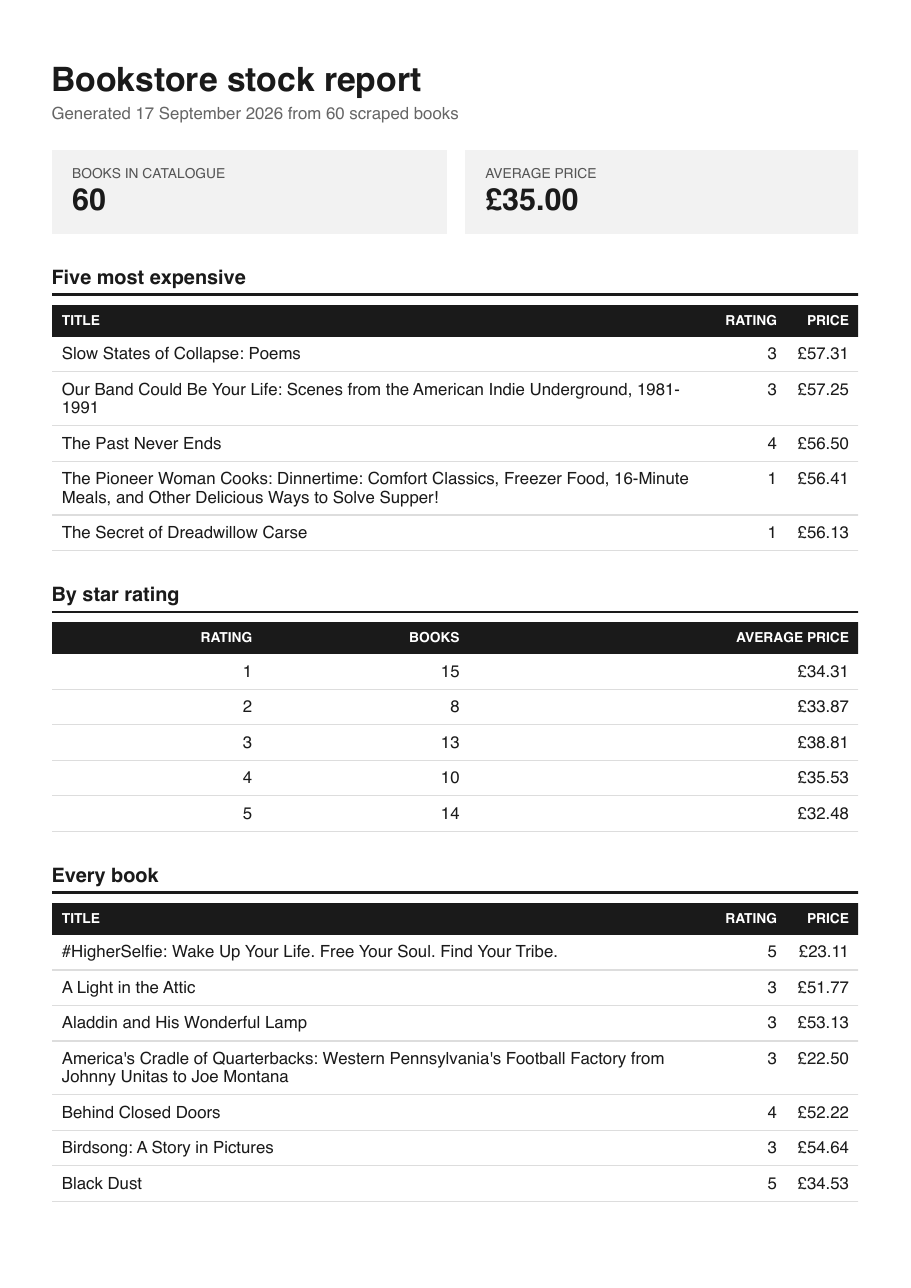
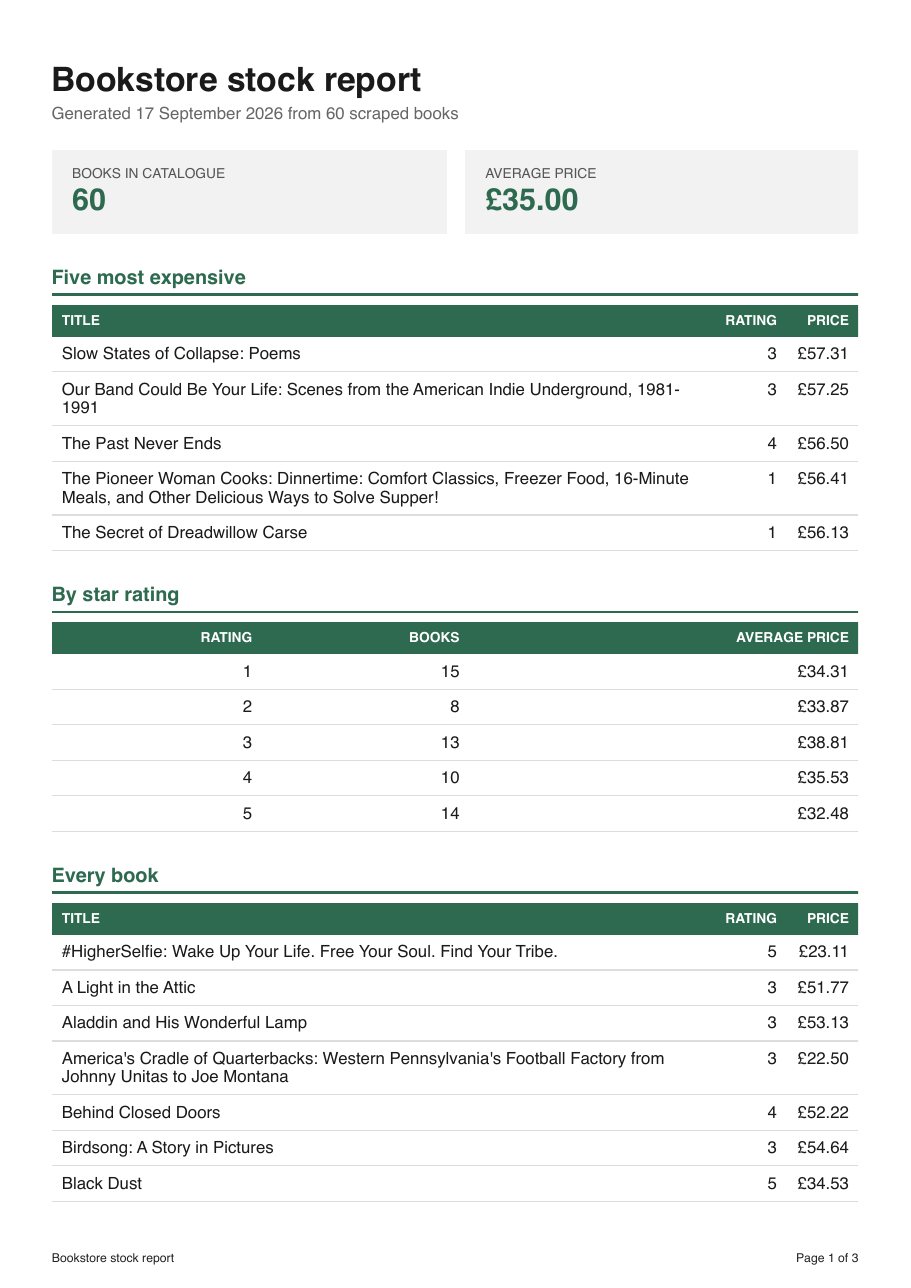
Stage 6: publish and docs

diff --git a/pdf-report-generator/README.md b/pdf-report-generator/README.md
@@ -1,0 +1,222 @@
+# PDF report generator (FlyRank A8)
+
+Turns rows in a SQLite table into a printable A4 document: query, render a web page, and ask a
+headless browser to print it. The API generates the report, records it, and serves the file by
+link.
+
+![Page 1 of a generated report](docs/report-page-1.png)
+
+## The dataset: option B, the bookstore
+
+This uses the 60 validated books my A9 scraper collected from books.toscrape.com, rather than
+inventing 200 random orders. `seed.py` reads [`../scraper/output/books.json`](../scraper/output/books.json)
+and loads it into `report.db`, converting the star rating from the word the site publishes
+("Three") into a number the report can group and sort on (3).
+
+## Run it
+
+Python 3.11. From this `pdf-report-generator/` folder:
+
+```bash
+python3.11 -m venv .venv
+.venv/bin/pip install -r requirements.txt
+.venv/bin/playwright install chromium
+
+.venv/bin/python seed.py                          # fills report.db with the 60 books
+.venv/bin/uvicorn main:app --port 8100            # the API
+```
+
+Then `curl -X POST http://localhost:8100/reports`. The tests need no server and no browser:
+
+```bash
+.venv/bin/python test_report.py
+```
+
+Running `seed.py` twice leaves 60 rows rather than 120, because it clears the table before
+inserting. `report.db` and `reports/` are both git-ignored: generated artefacts do not belong in
+git, and the seed script is their recipe.
+
+## Endpoints
+
+| Endpoint | Does | Answers |
+| --- | --- | --- |
+| `GET /health` | liveness | `200 {"status": "ok"}` |
+| `POST /reports` | runs the whole pipeline and records the file | `201` + `{"id", "file"}`, or `200` with the existing id if today already has one |
+| `GET /reports` | every report generated, newest first | `200` + a count and a list |
+| `GET /reports/{id}` | one report's record and its link | the row, or `404` |
+| `GET /reports/{id}/file` | the PDF itself | `application/pdf`, or `404` |
+
+`POST /reports` accepts an optional body: `{"force": true}` to generate a fresh one on a day
+that already has a report, and `{"min_rating": 4}` to report only on books rated four stars and
+above. A `min_rating` outside 1 to 5 is a `400`.
+
+## The queries
+
+Four questions, answered in SQL rather than in Python. These are the exact strings in
+[`db.py`](db.py), and the numbers in the screenshot above came out of them:
+
+```sql
+-- how many books
+SELECT COUNT(*) AS total_books FROM books WHERE rating >= ?;
+
+-- what they cost on average
+SELECT ROUND(AVG(price), 2) AS average_price FROM books WHERE rating >= ?;
+
+-- the five priciest
+SELECT title, price, rating
+FROM books
+WHERE rating >= ?
+ORDER BY price DESC
+LIMIT 5;
+
+-- the shape of the catalogue, by star rating
+SELECT rating, COUNT(*) AS books, ROUND(AVG(price), 2) AS average_price
+FROM books
+WHERE rating >= ?
+GROUP BY rating
+ORDER BY rating;
+```
+
+`min_rating` is bound as a parameter every time, never formatted into the string.
+
+The numbers agree with each other, which is the check worth doing: the rating groups hold
+15 + 8 + 13 + 10 + 14 = 60 books, and the total says 60.
+
+## Proof: generate, then download
+
+```
+$ curl -s -o out.json -w 'status=%{http_code}  total=%{time_total}s\n' \
+    -X POST http://localhost:8100/reports
+status=201  total=0.274484s
+{"id":"54aa635b0184","file":"/reports/54aa635b0184/file"}
+
+$ curl -X POST http://localhost:8100/reports          # the same request again
+{"id":"54aa635b0184","file":"/reports/54aa635b0184/file"}   [200]
+
+$ curl -s http://localhost:8100/reports/54aa635b0184
+{"id":"54aa635b0184","created_at":"2026-09-17T11:21:49.581341+00:00",
+ "file":"/reports/54aa635b0184/file"}
+
+$ curl -o my-report.pdf .../reports/54aa635b0184/file
+content-type: application/pdf
+content-disposition: attachment; filename="bookstore-report-2026-09-17.pdf"
+content-length: 62149
+
+$ file my-report.pdf
+my-report.pdf: PDF document, version 1.4, 3 pages
+```
+
+Only the last of those moves megabytes. The other three answer in a few dozen bytes and hand
+over a link, which is what "store and link" means in practice.
+
+## The page-break trap
+
+A long table breaks badly by default, and the first render proved it. Reading the text back out
+of the PDF page by page:
+
+```
+page 1: RATING header present = True
+page 2: RATING header present = False
+page 3: RATING header present = False
+```
+
+The header row appeared once and never again, so pages 2 and 3 were columns of numbers with
+nothing saying what they were. Two rules fix it:
+
+```css
+thead { display: table-header-group; }   /* repeat the header on every page */
+tr    { break-inside: avoid; }           /* never slice a row down the middle */
+```
+
+with the header rows moved into a real `<thead>`. After that, all three pages carry the header.
+
+No row happened to land on a page boundary in the 60-book report, so the second rule was not
+exercised there. The 5,000-row version below is where it earns its place.
+
+## When would you move this work out of the request?
+
+The endpoint does everything inline: query, launch a browser, render, write the file, insert a
+row. For 60 books that costs 0.27 seconds and one user clicking one button, which is fine. I
+would move it into a background job at the point where the work either outlasts a sensible HTTP
+timeout or arrives in parallel: a report large enough to take tens of seconds, or more than a
+handful of users generating at once, because every in-flight request is holding a browser
+process and a connection open, and a client that disconnects halfway leaves that work orphaned
+with nobody to hand the result to. A7's job queue is exactly the shape that fixes it: return
+`202` with an id straight away and let a worker render.
+
+## Ask twice, get one
+
+Two rapid POSTs return the same id and `reports/` gains exactly one file. The first answers
+`201`, the second `200`, and `{"force": true}` opts out:
+
+```
+POST /reports                     -> {"id":"52a2fd6f8c23", ...}  [201]
+POST /reports                     -> {"id":"52a2fd6f8c23", ...}  [200]
+files in reports/: 1
+POST /reports {"force":true}      -> {"id":"52c8c99cac88", ...}  [201]
+files in reports/: 2
+```
+
+What the check protects against is the double-click: a user pressing "Generate report" twice, or
+a browser retrying a request that already succeeded, producing two identical files and two
+identical records for the same day. The version of this that costs money is anything with a side
+effect attached, where a missing check means charging a customer's card twice for one order, or
+emailing every subscriber a second copy of the same newsletter because the send job ran twice.
+
+The rule is per filter rather than per day: a four-star report and an everything report are
+different documents, so `min_rating` is stored on the row and the daily check matches on it.
+
+## Extras
+
+**A parameterised report.** `{"min_rating": 4}` filters every query. A rating outside 1 to 5 is
+rejected with a `400` before anything renders, and every error from this API has the same shape,
+`{"error": "..."}`.
+
+**The control panel.** `GET /reports` lists everything generated, newest first, with links and
+the filter each one used.
+
+**Nice filenames.** The download arrives as `bookstore-report-2026-09-17.pdf` rather than a hex
+id, set through `content-disposition` while the file on disk keeps its id.
+
+**Brand colours and a repeating footer.** Every page carries "Page N of M", filled in by Chromium
+through `display_header_footer` rather than counted by hand.
+
+**The big-table experiment.** `python seed.py 5000` inflates the real books to 5,000 rows with
+unique URLs, and the same endpoint generates over them:
+
+| Rows | Pages | POST took |
+| --- | --- | --- |
+| 60 | 3 | 0.24s |
+| 5,000 | 179 | 0.56s |
+
+Two things that says. First, the work is not linear in rows: 83 times the data cost about twice
+the time, because most of the 0.24 seconds is launching Chromium rather than laying out rows, so
+the fixed cost dominates until the document gets genuinely large. Second, 0.56 seconds inside a
+request is survivable and a 179-page report is not the limit: the same endpoint on a dataset ten
+times larger, or twenty users pressing the button together, is twenty browsers launching at once
+on one machine. That is the point where this belongs in a queue, not in a request.
+
+The 179-page run also did what the 60-book one could not, which is exercise the print CSS
+properly:
+
+```
+pages with text: 179
+pages carrying the repeated table header: 179/179
+pages carrying the page-number footer:    179/179
+rows whose text is split across a page break: 0
+```
+
+## The tests
+
+`test_report.py` is 23 plain asserts and needs no server, no browser and no network. It covers
+the rating conversion, unique URLs, the inflate helper, every aggregation including whether the
+rating groups still sum to the total, the filter, the presence of both print rules in the
+generated HTML, and the API's 400s and 404s. It deliberately never posts a valid report, because
+that would launch a browser, and a test suite that takes a second is one you actually run.
+
+## An honest limitation
+
+The once-a-day check reads the database and then writes, with no lock between the two. Two
+requests arriving in the same millisecond can both find nothing and both generate. SQLite would
+let a `UNIQUE (date(created_at), min_rating)` constraint settle it properly, and this does not
+have one.
